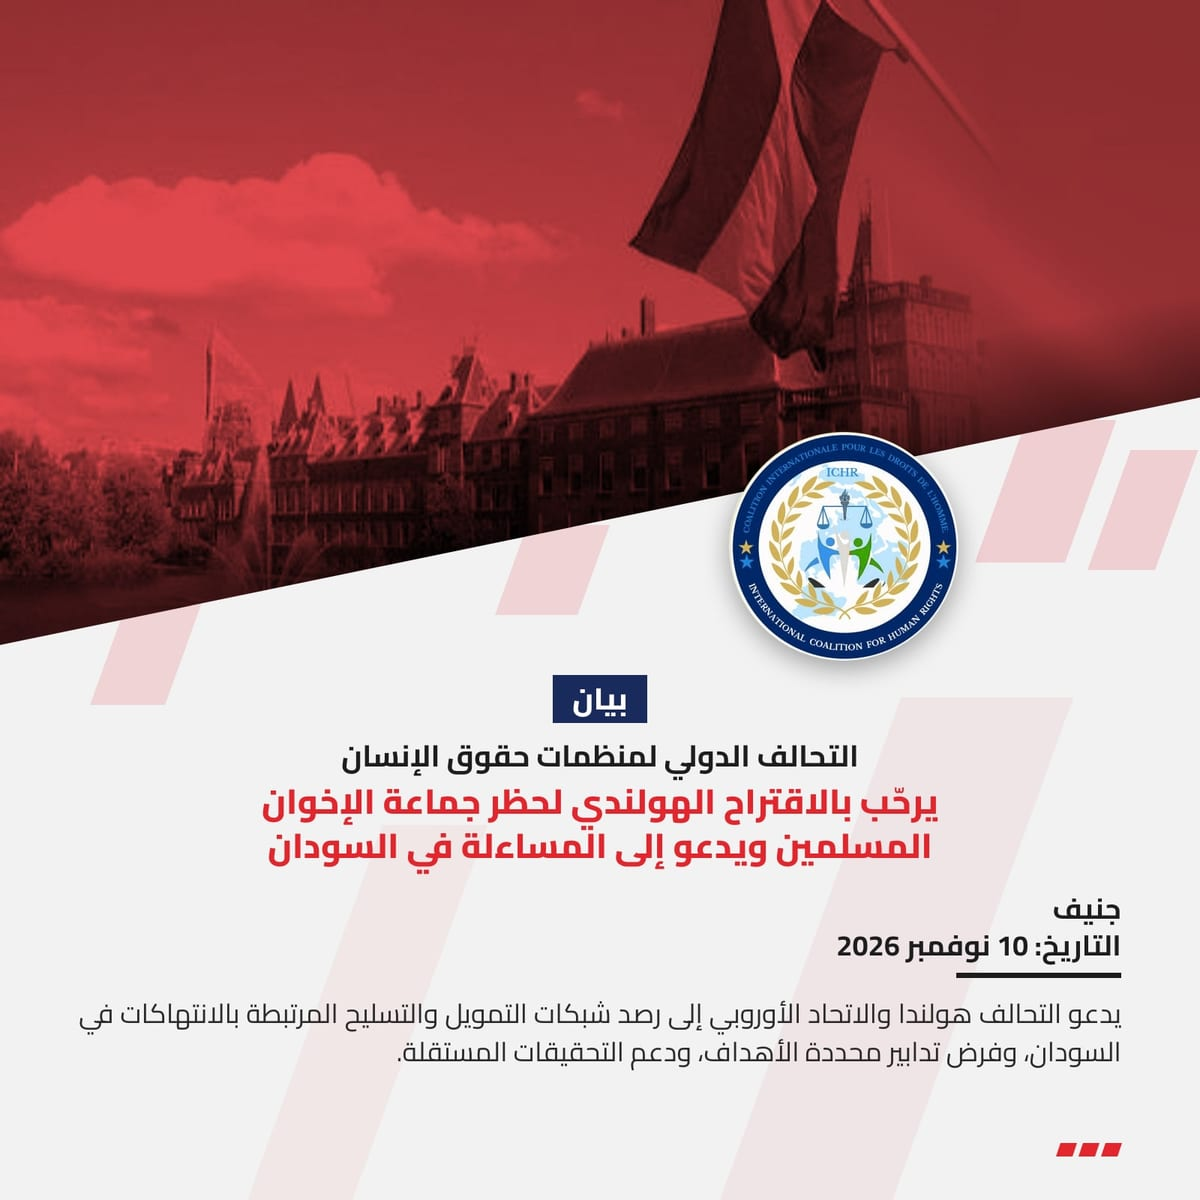
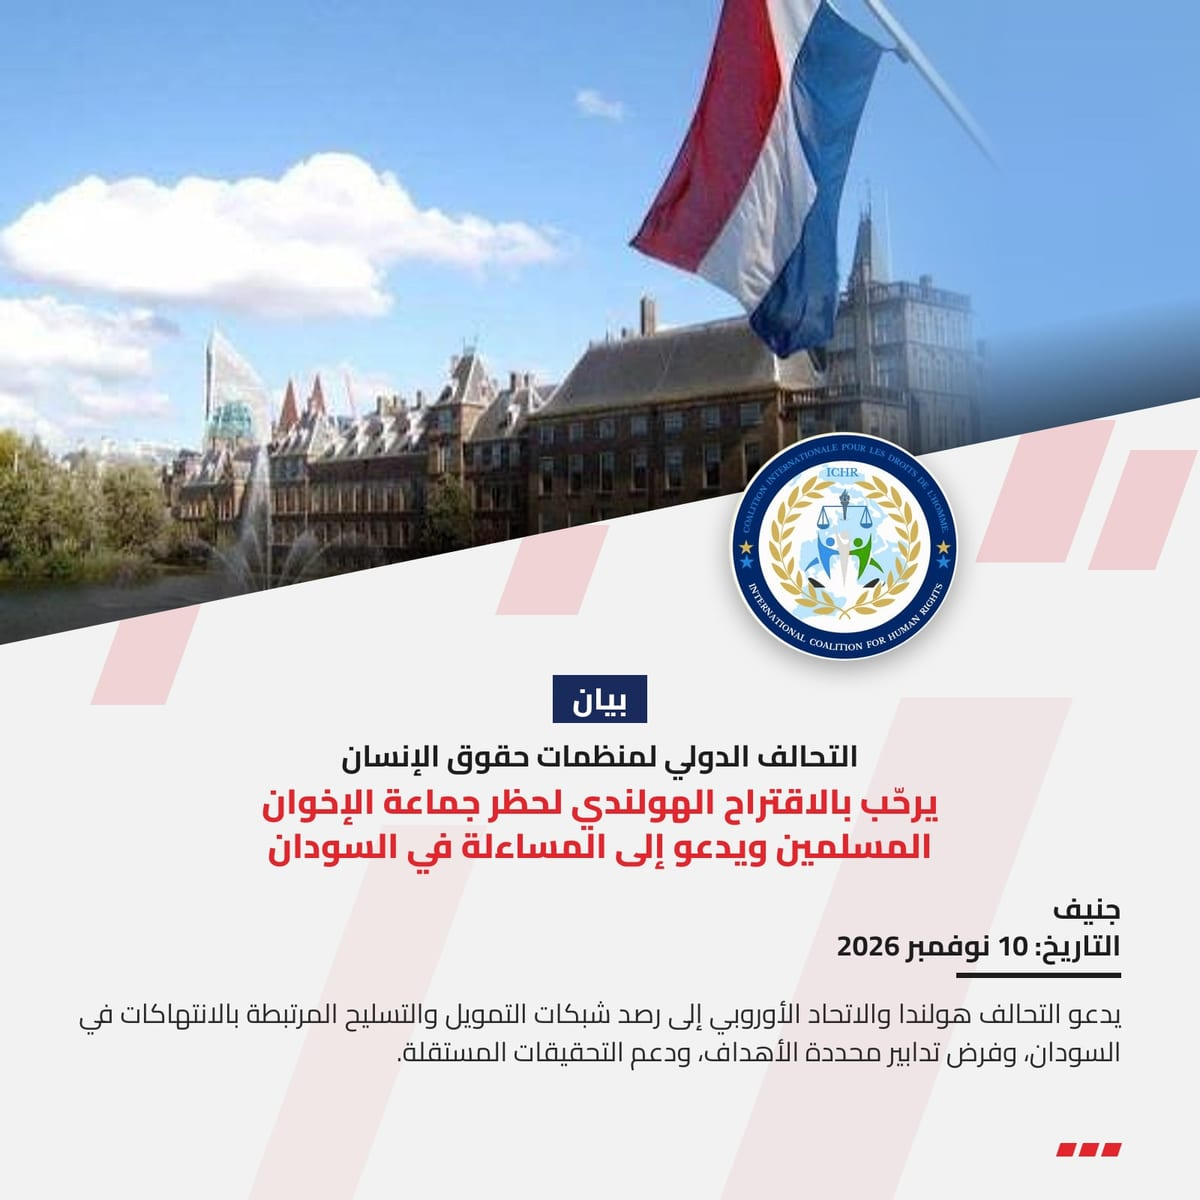
content: natural-colour covers for the Dutch motion statement

diff --git a/docs/press-log-2026.md b/docs/press-log-2026.md
@@ -242,6 +242,10 @@ owner's choice. The motion itself was adopted on 17 March 2026; the statement is
 written, with the date only in the seed's notes. AR/FR translated in house. Photo-card covers in
 all three languages from the client's Binnenhof photograph (480 × 321, upscaled into the band).
 
+**Covers redrawn 11 Nov** (1.0.37) at the client's request ("the image is not clear"): the band
+shows the photograph in its own colours instead of the red tone (`tone: 'natural'`, a new
+photo-card option). Text unchanged.
+
 ---
 
 ## Attached documents

diff --git a/docs/runbooks/press/photo-card.md b/docs/runbooks/press/photo-card.md
@@ -31,6 +31,7 @@ dateline and date · a short rule · the lead paragraph, justified · three red 
 ```js
 export const PHOTO_CARD_BAND = { map: 'sudan', marker: { lon: 24.88, lat: 12.05 } };
 // or: { photo: 'press/OCT/9/photo.jpg' }   (repo-relative; greyscaled and toned red)
+// or: { photo: '…', tone: 'natural' }    (the photo in its own colours, no red tone)
 
 export const PHOTO_CARDS = {
   en: {
